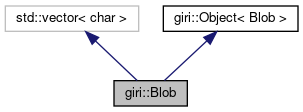
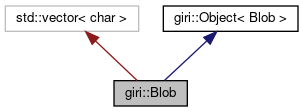
Avoid public inheritance from c++ std::template (bad coding style, should be avoided in general).

Changed region(s): [[0.2673, 0.2679, 0.4455, 0.6964], [0.4455, 0.6964, 0.4752, 0.7232]]

diff --git a/docs/html/Blob_8h_source.html b/docs/html/Blob_8h_source.html
@@ -63,20 +63,20 @@ $(function() {
 <div class="title">Blob.h</div>  </div>
 </div><!--header-->
 <div class="contents">
-<a href="Blob_8h.html">Go to the documentation of this file.</a><div class="fragment"><div class="line"><a name="l00001"></a><span class="lineno">    1</span>&#160;</div><div class="line"><a name="l00010"></a><span class="lineno">   10</span>&#160;<span class="preprocessor">#ifndef SUPPORTLIB_BLOB_H</span></div><div class="line"><a name="l00011"></a><span class="lineno">   11</span>&#160;<span class="preprocessor">#define SUPPORTLIB_BLOB_H</span></div><div class="line"><a name="l00012"></a><span class="lineno">   12</span>&#160;<span class="preprocessor">#include &quot;<a class="code" href="Object_8h.html">Object.h</a>&quot;</span></div><div class="line"><a name="l00013"></a><span class="lineno">   13</span>&#160;<span class="preprocessor">#include &quot;<a class="code" href="Base64_8h.html">Base64.h</a>&quot;</span></div><div class="line"><a name="l00014"></a><span class="lineno">   14</span>&#160;<span class="preprocessor">#include &quot;<a class="code" href="FileSystem_8h.html">FileSystem.h</a>&quot;</span></div><div class="line"><a name="l00015"></a><span class="lineno">   15</span>&#160;<span class="preprocessor">#include &lt;vector&gt;</span></div><div class="line"><a name="l00016"></a><span class="lineno">   16</span>&#160;<span class="preprocessor">#include &lt;string&gt;</span></div><div class="line"><a name="l00017"></a><span class="lineno">   17</span>&#160;<span class="preprocessor">#include &lt;boost/iostreams/filter/gzip.hpp&gt;</span></div><div class="line"><a name="l00018"></a><span class="lineno">   18</span>&#160;<span class="preprocessor">#include &lt;boost/iostreams/filtering_stream.hpp&gt;</span></div><div class="line"><a name="l00019"></a><span class="lineno">   19</span>&#160;<span class="keyword">namespace </span><a class="code" href="namespacegiri.html">giri</a> {</div><div class="line"><a name="l00023"></a><span class="lineno"><a class="line" href="classgiri_1_1Blob.html">   23</a></span>&#160;    <span class="keyword">class </span><a class="code" href="classgiri_1_1Blob.html">Blob</a> : <span class="keyword">public</span> std::vector&lt;char&gt;, <span class="keyword">public</span> <a class="code" href="classgiri_1_1Object.html">Object</a>&lt;Blob&gt;</div><div class="line"><a name="l00024"></a><span class="lineno">   24</span>&#160;    {</div><div class="line"><a name="l00025"></a><span class="lineno">   25</span>&#160;    <span class="keyword">public</span>:</div><div class="line"><a name="l00026"></a><span class="lineno">   26</span>&#160;        <span class="keyword">using</span> std::vector&lt;char&gt;::vector;</div><div class="line"><a name="l00027"></a><span class="lineno">   27</span>&#160;        <a class="code" href="classgiri_1_1Blob.html">Blob</a>(<span class="keyword">const</span> std::vector&lt;char&gt;&amp; d) : ::std::vector&lt;char&gt;(d){};</div><div class="line"><a name="l00028"></a><span class="lineno">   28</span>&#160;        <a class="code" href="classgiri_1_1Blob.html">Blob</a>&amp; operator= (<span class="keyword">const</span> std::vector&lt;char&gt;&amp; d) { assign(d.begin(), d.end()); <span class="keywordflow">return</span> *<span class="keyword">this</span>; };</div><div class="line"><a name="l00029"></a><span class="lineno">   29</span>&#160;</div><div class="line"><a name="l00033"></a><span class="lineno"><a class="line" href="classgiri_1_1Blob.html#a5e8acd486f00f747cd15e5227f5ddddc">   33</a></span>&#160;        std::string <a class="code" href="classgiri_1_1Blob.html#a5e8acd486f00f747cd15e5227f5ddddc">toString</a>()<span class="keyword"> const </span>{</div><div class="line"><a name="l00034"></a><span class="lineno">   34</span>&#160;            <span class="keywordflow">return</span> std::string(begin(), end());</div><div class="line"><a name="l00035"></a><span class="lineno">   35</span>&#160;        }</div><div class="line"><a name="l00036"></a><span class="lineno">   36</span>&#160;</div><div class="line"><a name="l00041"></a><span class="lineno"><a class="line" href="classgiri_1_1Blob.html#a104b091bee389b787210c46ff82be32a">   41</a></span>&#160;        <span class="keywordtype">void</span> <a class="code" href="classgiri_1_1Blob.html#a104b091bee389b787210c46ff82be32a">loadString</a>(<span class="keyword">const</span> std::string&amp; s) {</div><div class="line"><a name="l00042"></a><span class="lineno">   42</span>&#160;            assign(s.begin(), s.end());</div><div class="line"><a name="l00043"></a><span class="lineno">   43</span>&#160;        }</div><div class="line"><a name="l00044"></a><span class="lineno">   44</span>&#160;</div><div class="line"><a name="l00052"></a><span class="lineno"><a class="line" href="classgiri_1_1Blob.html#a7e5dfbe6cc6981bdd2c780406e5d43e9">   52</a></span>&#160;        <span class="keywordtype">bool</span> <a class="code" href="classgiri_1_1Blob.html#a7e5dfbe6cc6981bdd2c780406e5d43e9">toFile</a>(<span class="keyword">const</span> std::filesystem::path&amp; file){</div><div class="line"><a name="l00053"></a><span class="lineno">   53</span>&#160;            <span class="keywordflow">return</span> <a class="code" href="namespacegiri_1_1FileSystem.html#a951e7c5d706bb8b06d101382eadb832f">FileSystem::WriteFile</a>(file, *<span class="keyword">this</span>);</div><div class="line"><a name="l00054"></a><span class="lineno">   54</span>&#160;        }</div><div class="line"><a name="l00055"></a><span class="lineno">   55</span>&#160;</div><div class="line"><a name="l00061"></a><span class="lineno"><a class="line" href="classgiri_1_1Blob.html#ab7bf4966afbf9328e3451ac74dbbbe8e">   61</a></span>&#160;        <span class="keywordtype">void</span> <a class="code" href="classgiri_1_1Blob.html#ab7bf4966afbf9328e3451ac74dbbbe8e">loadFile</a>(<span class="keyword">const</span> std::filesystem::path&amp; file) {</div><div class="line"><a name="l00062"></a><span class="lineno">   62</span>&#160;            *<span class="keyword">this</span> = <a class="code" href="namespacegiri_1_1FileSystem.html#a4ef3f62c0424be19ff4bc9fc36e7b226">FileSystem::LoadFile</a>(file);</div><div class="line"><a name="l00063"></a><span class="lineno">   63</span>&#160;        }</div><div class="line"><a name="l00064"></a><span class="lineno">   64</span>&#160;</div><div class="line"><a name="l00068"></a><span class="lineno"><a class="line" href="classgiri_1_1Blob.html#aac81d7eba9c00d2b7b9984de99089e25">   68</a></span>&#160;        std::string <a class="code" href="classgiri_1_1Blob.html#aac81d7eba9c00d2b7b9984de99089e25">toBase64</a>()<span class="keyword"> const </span>{</div><div class="line"><a name="l00069"></a><span class="lineno">   69</span>&#160;            <span class="keywordflow">return</span> <a class="code" href="namespacegiri_1_1Base64.html#a49673d46cf5535fe22a659ea1f2e8bc4">Base64::Encode</a>(*<span class="keyword">this</span>);</div><div class="line"><a name="l00070"></a><span class="lineno">   70</span>&#160;        }</div><div class="line"><a name="l00071"></a><span class="lineno">   71</span>&#160;</div><div class="line"><a name="l00076"></a><span class="lineno"><a class="line" href="classgiri_1_1Blob.html#a33ade7b7c42fbbeea3f105d09bd1eb22">   76</a></span>&#160;        <span class="keywordtype">void</span> <a class="code" href="classgiri_1_1Blob.html#a33ade7b7c42fbbeea3f105d09bd1eb22">loadBase64</a>(<span class="keyword">const</span> std::string&amp; data) {</div><div class="line"><a name="l00077"></a><span class="lineno">   77</span>&#160;            *<span class="keyword">this</span> = <a class="code" href="namespacegiri_1_1Base64.html#a0d1ab972280af452a08fe74b6a58e522">Base64::Decode</a>(data);</div><div class="line"><a name="l00078"></a><span class="lineno">   78</span>&#160;        }</div><div class="line"><a name="l00079"></a><span class="lineno">   79</span>&#160;</div><div class="line"><a name="l00083"></a><span class="lineno"><a class="line" href="classgiri_1_1Blob.html#a43417f7fbb05b6ec76facb6c940cd46a">   83</a></span>&#160;        <span class="keywordtype">void</span> <a class="code" href="classgiri_1_1Blob.html#a43417f7fbb05b6ec76facb6c940cd46a">compress</a>(){</div><div class="line"><a name="l00084"></a><span class="lineno">   84</span>&#160;            boost::iostreams::filtering_istreambuf in;</div><div class="line"><a name="l00085"></a><span class="lineno">   85</span>&#160;            in.push(boost::iostreams::gzip_compressor(boost::iostreams::zlib::best_compression));</div><div class="line"><a name="l00086"></a><span class="lineno">   86</span>&#160;            in.push(boost::iostreams::array_source(data(), size()));</div><div class="line"><a name="l00087"></a><span class="lineno">   87</span>&#160;            assign(std::istreambuf_iterator&lt;char&gt;{&amp;in}, {});</div><div class="line"><a name="l00088"></a><span class="lineno">   88</span>&#160;        }</div><div class="line"><a name="l00089"></a><span class="lineno">   89</span>&#160;</div><div class="line"><a name="l00093"></a><span class="lineno"><a class="line" href="classgiri_1_1Blob.html#a852a33f1f2908b22b86ebb982d47cfd9">   93</a></span>&#160;        <span class="keywordtype">void</span> <a class="code" href="classgiri_1_1Blob.html#a852a33f1f2908b22b86ebb982d47cfd9">decompress</a>(){</div><div class="line"><a name="l00094"></a><span class="lineno">   94</span>&#160;            boost::iostreams::filtering_istreambuf in;</div><div class="line"><a name="l00095"></a><span class="lineno">   95</span>&#160;            in.push(boost::iostreams::gzip_decompressor(boost::iostreams::zlib::best_compression));</div><div class="line"><a name="l00096"></a><span class="lineno">   96</span>&#160;            in.push(boost::iostreams::array_source(data(), size()));</div><div class="line"><a name="l00097"></a><span class="lineno">   97</span>&#160;            assign(std::istreambuf_iterator&lt;char&gt;{&amp;in}, {});</div><div class="line"><a name="l00098"></a><span class="lineno">   98</span>&#160;        }</div><div class="line"><a name="l00099"></a><span class="lineno">   99</span>&#160;    };</div><div class="line"><a name="l00100"></a><span class="lineno">  100</span>&#160;}</div><div class="line"><a name="l00101"></a><span class="lineno">  101</span>&#160;<span class="preprocessor">#endif //SUPPORTLIB_BLOB_H</span></div><div class="ttc" id="classgiri_1_1Blob_html_a33ade7b7c42fbbeea3f105d09bd1eb22"><div class="ttname"><a href="classgiri_1_1Blob.html#a33ade7b7c42fbbeea3f105d09bd1eb22">giri::Blob::loadBase64</a></div><div class="ttdeci">void loadBase64(const std::string &amp;data)</div><div class="ttdef"><b>Definition:</b> Blob.h:76</div></div>
-<div class="ttc" id="classgiri_1_1Blob_html_ab7bf4966afbf9328e3451ac74dbbbe8e"><div class="ttname"><a href="classgiri_1_1Blob.html#ab7bf4966afbf9328e3451ac74dbbbe8e">giri::Blob::loadFile</a></div><div class="ttdeci">void loadFile(const std::filesystem::path &amp;file)</div><div class="ttdef"><b>Definition:</b> Blob.h:61</div></div>
-<div class="ttc" id="classgiri_1_1Blob_html_a852a33f1f2908b22b86ebb982d47cfd9"><div class="ttname"><a href="classgiri_1_1Blob.html#a852a33f1f2908b22b86ebb982d47cfd9">giri::Blob::decompress</a></div><div class="ttdeci">void decompress()</div><div class="ttdef"><b>Definition:</b> Blob.h:93</div></div>
+<a href="Blob_8h.html">Go to the documentation of this file.</a><div class="fragment"><div class="line"><a name="l00001"></a><span class="lineno">    1</span>&#160;</div><div class="line"><a name="l00010"></a><span class="lineno">   10</span>&#160;<span class="preprocessor">#ifndef SUPPORTLIB_BLOB_H</span></div><div class="line"><a name="l00011"></a><span class="lineno">   11</span>&#160;<span class="preprocessor">#define SUPPORTLIB_BLOB_H</span></div><div class="line"><a name="l00012"></a><span class="lineno">   12</span>&#160;<span class="preprocessor">#include &quot;<a class="code" href="Object_8h.html">Object.h</a>&quot;</span></div><div class="line"><a name="l00013"></a><span class="lineno">   13</span>&#160;<span class="preprocessor">#include &quot;<a class="code" href="Base64_8h.html">Base64.h</a>&quot;</span></div><div class="line"><a name="l00014"></a><span class="lineno">   14</span>&#160;<span class="preprocessor">#include &quot;<a class="code" href="FileSystem_8h.html">FileSystem.h</a>&quot;</span></div><div class="line"><a name="l00015"></a><span class="lineno">   15</span>&#160;<span class="preprocessor">#include &lt;vector&gt;</span></div><div class="line"><a name="l00016"></a><span class="lineno">   16</span>&#160;<span class="preprocessor">#include &lt;string&gt;</span></div><div class="line"><a name="l00017"></a><span class="lineno">   17</span>&#160;<span class="preprocessor">#include &lt;boost/iostreams/filter/gzip.hpp&gt;</span></div><div class="line"><a name="l00018"></a><span class="lineno">   18</span>&#160;<span class="preprocessor">#include &lt;boost/iostreams/filtering_stream.hpp&gt;</span></div><div class="line"><a name="l00019"></a><span class="lineno">   19</span>&#160;<span class="keyword">namespace </span><a class="code" href="namespacegiri.html">giri</a> {</div><div class="line"><a name="l00023"></a><span class="lineno"><a class="line" href="classgiri_1_1Blob.html">   23</a></span>&#160;    <span class="keyword">class </span><a class="code" href="classgiri_1_1Blob.html">Blob</a> : <span class="keyword">private</span> std::vector&lt;char&gt;, <span class="keyword">public</span> <a class="code" href="classgiri_1_1Object.html">Object</a>&lt;Blob&gt;</div><div class="line"><a name="l00024"></a><span class="lineno">   24</span>&#160;    {</div><div class="line"><a name="l00025"></a><span class="lineno">   25</span>&#160;    <span class="keyword">public</span>:</div><div class="line"><a name="l00026"></a><span class="lineno">   26</span>&#160;        <span class="keyword">using</span> std::vector&lt;char&gt;::push_back;</div><div class="line"><a name="l00027"></a><span class="lineno">   27</span>&#160;        <span class="keyword">using</span> std::vector&lt;char&gt;::pop_back;</div><div class="line"><a name="l00028"></a><span class="lineno">   28</span>&#160;        <span class="keyword">using</span> std::vector&lt;char&gt;::emplace_back;</div><div class="line"><a name="l00029"></a><span class="lineno">   29</span>&#160;        <span class="keyword">using</span> std::vector&lt;char&gt;::front;</div><div class="line"><a name="l00030"></a><span class="lineno">   30</span>&#160;        <span class="keyword">using</span> std::vector&lt;char&gt;::back;</div><div class="line"><a name="l00031"></a><span class="lineno">   31</span>&#160;        <span class="keyword">using</span> std::vector&lt;char&gt;::operator[];</div><div class="line"><a name="l00032"></a><span class="lineno">   32</span>&#160;        <span class="keyword">using</span> std::vector&lt;char&gt;::operator=;</div><div class="line"><a name="l00033"></a><span class="lineno">   33</span>&#160;        <span class="keyword">using</span> std::vector&lt;char&gt;::begin;</div><div class="line"><a name="l00034"></a><span class="lineno">   34</span>&#160;        <span class="keyword">using</span> std::vector&lt;char&gt;::end;</div><div class="line"><a name="l00035"></a><span class="lineno">   35</span>&#160;        <span class="keyword">using</span> std::vector&lt;char&gt;::cbegin;</div><div class="line"><a name="l00036"></a><span class="lineno">   36</span>&#160;        <span class="keyword">using</span> std::vector&lt;char&gt;::cend;</div><div class="line"><a name="l00037"></a><span class="lineno">   37</span>&#160;        <span class="keyword">using</span> std::vector&lt;char&gt;::crbegin;</div><div class="line"><a name="l00038"></a><span class="lineno">   38</span>&#160;        <span class="keyword">using</span> std::vector&lt;char&gt;::crend;</div><div class="line"><a name="l00039"></a><span class="lineno">   39</span>&#160;        <span class="keyword">using</span> std::vector&lt;char&gt;::assign;</div><div class="line"><a name="l00040"></a><span class="lineno">   40</span>&#160;        <span class="keyword">using</span> std::vector&lt;char&gt;::size;</div><div class="line"><a name="l00041"></a><span class="lineno">   41</span>&#160;        <span class="keyword">using</span> std::vector&lt;char&gt;::at;</div><div class="line"><a name="l00042"></a><span class="lineno">   42</span>&#160;        <span class="keyword">using</span> std::vector&lt;char&gt;::clear;</div><div class="line"><a name="l00043"></a><span class="lineno">   43</span>&#160;        <span class="keyword">using</span> std::vector&lt;char&gt;::empty;</div><div class="line"><a name="l00044"></a><span class="lineno">   44</span>&#160;        <span class="keyword">using</span> std::vector&lt;char&gt;::erase;</div><div class="line"><a name="l00045"></a><span class="lineno">   45</span>&#160;        <span class="keyword">using</span> std::vector&lt;char&gt;::insert;</div><div class="line"><a name="l00046"></a><span class="lineno">   46</span>&#160;        <span class="keyword">using</span> std::vector&lt;char&gt;::resize;</div><div class="line"><a name="l00047"></a><span class="lineno">   47</span>&#160;        <span class="keyword">using</span> std::vector&lt;char&gt;::reserve;</div><div class="line"><a name="l00048"></a><span class="lineno">   48</span>&#160;        <span class="keyword">using</span> std::vector&lt;char&gt;::iterator;</div><div class="line"><a name="l00049"></a><span class="lineno">   49</span>&#160;        <span class="keyword">using</span> std::vector&lt;char&gt;::const_iterator;</div><div class="line"><a name="l00050"></a><span class="lineno">   50</span>&#160;        <span class="keyword">using</span> std::vector&lt;char&gt;::vector;</div><div class="line"><a name="l00051"></a><span class="lineno">   51</span>&#160;        </div><div class="line"><a name="l00055"></a><span class="lineno"><a class="line" href="classgiri_1_1Blob.html#a5e8acd486f00f747cd15e5227f5ddddc">   55</a></span>&#160;        std::string <a class="code" href="classgiri_1_1Blob.html#a5e8acd486f00f747cd15e5227f5ddddc">toString</a>()<span class="keyword"> const </span>{</div><div class="line"><a name="l00056"></a><span class="lineno">   56</span>&#160;            <span class="keywordflow">return</span> std::string(begin(), end());</div><div class="line"><a name="l00057"></a><span class="lineno">   57</span>&#160;        }</div><div class="line"><a name="l00058"></a><span class="lineno">   58</span>&#160;</div><div class="line"><a name="l00063"></a><span class="lineno"><a class="line" href="classgiri_1_1Blob.html#a104b091bee389b787210c46ff82be32a">   63</a></span>&#160;        <span class="keywordtype">void</span> <a class="code" href="classgiri_1_1Blob.html#a104b091bee389b787210c46ff82be32a">loadString</a>(<span class="keyword">const</span> std::string&amp; s) {</div><div class="line"><a name="l00064"></a><span class="lineno">   64</span>&#160;            assign(s.begin(), s.end());</div><div class="line"><a name="l00065"></a><span class="lineno">   65</span>&#160;        }</div><div class="line"><a name="l00066"></a><span class="lineno">   66</span>&#160;</div><div class="line"><a name="l00074"></a><span class="lineno"><a class="line" href="classgiri_1_1Blob.html#a7e5dfbe6cc6981bdd2c780406e5d43e9">   74</a></span>&#160;        <span class="keywordtype">bool</span> <a class="code" href="classgiri_1_1Blob.html#a7e5dfbe6cc6981bdd2c780406e5d43e9">toFile</a>(<span class="keyword">const</span> std::filesystem::path&amp; file){</div><div class="line"><a name="l00075"></a><span class="lineno">   75</span>&#160;            <span class="keywordflow">return</span> <a class="code" href="namespacegiri_1_1FileSystem.html#a951e7c5d706bb8b06d101382eadb832f">FileSystem::WriteFile</a>(file, *<span class="keyword">this</span>);</div><div class="line"><a name="l00076"></a><span class="lineno">   76</span>&#160;        }</div><div class="line"><a name="l00077"></a><span class="lineno">   77</span>&#160;</div><div class="line"><a name="l00083"></a><span class="lineno"><a class="line" href="classgiri_1_1Blob.html#ab7bf4966afbf9328e3451ac74dbbbe8e">   83</a></span>&#160;        <span class="keywordtype">void</span> <a class="code" href="classgiri_1_1Blob.html#ab7bf4966afbf9328e3451ac74dbbbe8e">loadFile</a>(<span class="keyword">const</span> std::filesystem::path&amp; file) {</div><div class="line"><a name="l00084"></a><span class="lineno">   84</span>&#160;            *<span class="keyword">this</span> = <a class="code" href="namespacegiri_1_1FileSystem.html#a4ef3f62c0424be19ff4bc9fc36e7b226">FileSystem::LoadFile</a>(file);</div><div class="line"><a name="l00085"></a><span class="lineno">   85</span>&#160;        }</div><div class="line"><a name="l00086"></a><span class="lineno">   86</span>&#160;</div><div class="line"><a name="l00090"></a><span class="lineno"><a class="line" href="classgiri_1_1Blob.html#aac81d7eba9c00d2b7b9984de99089e25">   90</a></span>&#160;        std::string <a class="code" href="classgiri_1_1Blob.html#aac81d7eba9c00d2b7b9984de99089e25">toBase64</a>()<span class="keyword"> const </span>{</div><div class="line"><a name="l00091"></a><span class="lineno">   91</span>&#160;            <span class="keywordflow">return</span> <a class="code" href="namespacegiri_1_1Base64.html#a49673d46cf5535fe22a659ea1f2e8bc4">Base64::Encode</a>(*<span class="keyword">this</span>);</div><div class="line"><a name="l00092"></a><span class="lineno">   92</span>&#160;        }</div><div class="line"><a name="l00093"></a><span class="lineno">   93</span>&#160;</div><div class="line"><a name="l00098"></a><span class="lineno"><a class="line" href="classgiri_1_1Blob.html#a33ade7b7c42fbbeea3f105d09bd1eb22">   98</a></span>&#160;        <span class="keywordtype">void</span> <a class="code" href="classgiri_1_1Blob.html#a33ade7b7c42fbbeea3f105d09bd1eb22">loadBase64</a>(<span class="keyword">const</span> std::string&amp; data) {</div><div class="line"><a name="l00099"></a><span class="lineno">   99</span>&#160;            *<span class="keyword">this</span> = <a class="code" href="namespacegiri_1_1Base64.html#a0d1ab972280af452a08fe74b6a58e522">Base64::Decode</a>(data);</div><div class="line"><a name="l00100"></a><span class="lineno">  100</span>&#160;        }</div><div class="line"><a name="l00101"></a><span class="lineno">  101</span>&#160;</div><div class="line"><a name="l00105"></a><span class="lineno"><a class="line" href="classgiri_1_1Blob.html#a43417f7fbb05b6ec76facb6c940cd46a">  105</a></span>&#160;        <span class="keywordtype">void</span> <a class="code" href="classgiri_1_1Blob.html#a43417f7fbb05b6ec76facb6c940cd46a">compress</a>(){</div><div class="line"><a name="l00106"></a><span class="lineno">  106</span>&#160;            boost::iostreams::filtering_istreambuf in;</div><div class="line"><a name="l00107"></a><span class="lineno">  107</span>&#160;            in.push(boost::iostreams::gzip_compressor(boost::iostreams::zlib::best_compression));</div><div class="line"><a name="l00108"></a><span class="lineno">  108</span>&#160;            in.push(boost::iostreams::array_source(data(), size()));</div><div class="line"><a name="l00109"></a><span class="lineno">  109</span>&#160;            assign(std::istreambuf_iterator&lt;char&gt;{&amp;in}, {});</div><div class="line"><a name="l00110"></a><span class="lineno">  110</span>&#160;        }</div><div class="line"><a name="l00111"></a><span class="lineno">  111</span>&#160;</div><div class="line"><a name="l00115"></a><span class="lineno"><a class="line" href="classgiri_1_1Blob.html#a852a33f1f2908b22b86ebb982d47cfd9">  115</a></span>&#160;        <span class="keywordtype">void</span> <a class="code" href="classgiri_1_1Blob.html#a852a33f1f2908b22b86ebb982d47cfd9">decompress</a>(){</div><div class="line"><a name="l00116"></a><span class="lineno">  116</span>&#160;            boost::iostreams::filtering_istreambuf in;</div><div class="line"><a name="l00117"></a><span class="lineno">  117</span>&#160;            in.push(boost::iostreams::gzip_decompressor(boost::iostreams::zlib::best_compression));</div><div class="line"><a name="l00118"></a><span class="lineno">  118</span>&#160;            in.push(boost::iostreams::array_source(data(), size()));</div><div class="line"><a name="l00119"></a><span class="lineno">  119</span>&#160;            assign(std::istreambuf_iterator&lt;char&gt;{&amp;in}, {});</div><div class="line"><a name="l00120"></a><span class="lineno">  120</span>&#160;        }</div><div class="line"><a name="l00121"></a><span class="lineno">  121</span>&#160;    };</div><div class="line"><a name="l00122"></a><span class="lineno">  122</span>&#160;}</div><div class="line"><a name="l00123"></a><span class="lineno">  123</span>&#160;<span class="preprocessor">#endif //SUPPORTLIB_BLOB_H</span></div><div class="ttc" id="classgiri_1_1Blob_html_a33ade7b7c42fbbeea3f105d09bd1eb22"><div class="ttname"><a href="classgiri_1_1Blob.html#a33ade7b7c42fbbeea3f105d09bd1eb22">giri::Blob::loadBase64</a></div><div class="ttdeci">void loadBase64(const std::string &amp;data)</div><div class="ttdef"><b>Definition:</b> Blob.h:98</div></div>
+<div class="ttc" id="classgiri_1_1Blob_html_ab7bf4966afbf9328e3451ac74dbbbe8e"><div class="ttname"><a href="classgiri_1_1Blob.html#ab7bf4966afbf9328e3451ac74dbbbe8e">giri::Blob::loadFile</a></div><div class="ttdeci">void loadFile(const std::filesystem::path &amp;file)</div><div class="ttdef"><b>Definition:</b> Blob.h:83</div></div>
+<div class="ttc" id="classgiri_1_1Blob_html_a852a33f1f2908b22b86ebb982d47cfd9"><div class="ttname"><a href="classgiri_1_1Blob.html#a852a33f1f2908b22b86ebb982d47cfd9">giri::Blob::decompress</a></div><div class="ttdeci">void decompress()</div><div class="ttdef"><b>Definition:</b> Blob.h:115</div></div>
 <div class="ttc" id="classgiri_1_1Blob_html"><div class="ttname"><a href="classgiri_1_1Blob.html">giri::Blob</a></div><div class="ttdoc">Binary large object. </div><div class="ttdef"><b>Definition:</b> Blob.h:23</div></div>
 <div class="ttc" id="namespacegiri_html"><div class="ttname"><a href="namespacegiri.html">giri</a></div><div class="ttdoc">Namespace for giri&amp;#39;s C++ support library. </div><div class="ttdef"><b>Definition:</b> Base64.h:47</div></div>
 <div class="ttc" id="namespacegiri_1_1Base64_html_a0d1ab972280af452a08fe74b6a58e522"><div class="ttname"><a href="namespacegiri_1_1Base64.html#a0d1ab972280af452a08fe74b6a58e522">giri::Base64::Decode</a></div><div class="ttdeci">std::vector&lt; char &gt; Decode(const std::string &amp;base64Data)</div><div class="ttdef"><b>Definition:</b> Base64.h:104</div></div>
-<div class="ttc" id="classgiri_1_1Blob_html_a43417f7fbb05b6ec76facb6c940cd46a"><div class="ttname"><a href="classgiri_1_1Blob.html#a43417f7fbb05b6ec76facb6c940cd46a">giri::Blob::compress</a></div><div class="ttdeci">void compress()</div><div class="ttdef"><b>Definition:</b> Blob.h:83</div></div>
-<div class="ttc" id="classgiri_1_1Blob_html_a5e8acd486f00f747cd15e5227f5ddddc"><div class="ttname"><a href="classgiri_1_1Blob.html#a5e8acd486f00f747cd15e5227f5ddddc">giri::Blob::toString</a></div><div class="ttdeci">std::string toString() const</div><div class="ttdef"><b>Definition:</b> Blob.h:33</div></div>
+<div class="ttc" id="classgiri_1_1Blob_html_a43417f7fbb05b6ec76facb6c940cd46a"><div class="ttname"><a href="classgiri_1_1Blob.html#a43417f7fbb05b6ec76facb6c940cd46a">giri::Blob::compress</a></div><div class="ttdeci">void compress()</div><div class="ttdef"><b>Definition:</b> Blob.h:105</div></div>
+<div class="ttc" id="classgiri_1_1Blob_html_a5e8acd486f00f747cd15e5227f5ddddc"><div class="ttname"><a href="classgiri_1_1Blob.html#a5e8acd486f00f747cd15e5227f5ddddc">giri::Blob::toString</a></div><div class="ttdeci">std::string toString() const</div><div class="ttdef"><b>Definition:</b> Blob.h:55</div></div>
 <div class="ttc" id="namespacegiri_1_1FileSystem_html_a4ef3f62c0424be19ff4bc9fc36e7b226"><div class="ttname"><a href="namespacegiri_1_1FileSystem.html#a4ef3f62c0424be19ff4bc9fc36e7b226">giri::FileSystem::LoadFile</a></div><div class="ttdeci">std::vector&lt; char &gt; LoadFile(const std::filesystem::path &amp;file)</div><div class="ttdef"><b>Definition:</b> FileSystem.h:44</div></div>
-<div class="ttc" id="classgiri_1_1Blob_html_a7e5dfbe6cc6981bdd2c780406e5d43e9"><div class="ttname"><a href="classgiri_1_1Blob.html#a7e5dfbe6cc6981bdd2c780406e5d43e9">giri::Blob::toFile</a></div><div class="ttdeci">bool toFile(const std::filesystem::path &amp;file)</div><div class="ttdef"><b>Definition:</b> Blob.h:52</div></div>
+<div class="ttc" id="classgiri_1_1Blob_html_a7e5dfbe6cc6981bdd2c780406e5d43e9"><div class="ttname"><a href="classgiri_1_1Blob.html#a7e5dfbe6cc6981bdd2c780406e5d43e9">giri::Blob::toFile</a></div><div class="ttdeci">bool toFile(const std::filesystem::path &amp;file)</div><div class="ttdef"><b>Definition:</b> Blob.h:74</div></div>
 <div class="ttc" id="FileSystem_8h_html"><div class="ttname"><a href="FileSystem_8h.html">FileSystem.h</a></div><div class="ttdoc">Contains FileSystem I/O functions. </div></div>
-<div class="ttc" id="classgiri_1_1Blob_html_aac81d7eba9c00d2b7b9984de99089e25"><div class="ttname"><a href="classgiri_1_1Blob.html#aac81d7eba9c00d2b7b9984de99089e25">giri::Blob::toBase64</a></div><div class="ttdeci">std::string toBase64() const</div><div class="ttdef"><b>Definition:</b> Blob.h:68</div></div>
+<div class="ttc" id="classgiri_1_1Blob_html_aac81d7eba9c00d2b7b9984de99089e25"><div class="ttname"><a href="classgiri_1_1Blob.html#aac81d7eba9c00d2b7b9984de99089e25">giri::Blob::toBase64</a></div><div class="ttdeci">std::string toBase64() const</div><div class="ttdef"><b>Definition:</b> Blob.h:90</div></div>
 <div class="ttc" id="Object_8h_html"><div class="ttname"><a href="Object_8h.html">Object.h</a></div><div class="ttdoc">Base class of all classes. </div></div>
-<div class="ttc" id="classgiri_1_1Blob_html_a104b091bee389b787210c46ff82be32a"><div class="ttname"><a href="classgiri_1_1Blob.html#a104b091bee389b787210c46ff82be32a">giri::Blob::loadString</a></div><div class="ttdeci">void loadString(const std::string &amp;s)</div><div class="ttdef"><b>Definition:</b> Blob.h:41</div></div>
+<div class="ttc" id="classgiri_1_1Blob_html_a104b091bee389b787210c46ff82be32a"><div class="ttname"><a href="classgiri_1_1Blob.html#a104b091bee389b787210c46ff82be32a">giri::Blob::loadString</a></div><div class="ttdeci">void loadString(const std::string &amp;s)</div><div class="ttdef"><b>Definition:</b> Blob.h:63</div></div>
 <div class="ttc" id="classgiri_1_1Object_html"><div class="ttname"><a href="classgiri_1_1Object.html">giri::Object</a></div><div class="ttdoc">Base Class of all classes. </div><div class="ttdef"><b>Definition:</b> Object.h:33</div></div>
 <div class="ttc" id="namespacegiri_1_1Base64_html_a49673d46cf5535fe22a659ea1f2e8bc4"><div class="ttname"><a href="namespacegiri_1_1Base64.html#a49673d46cf5535fe22a659ea1f2e8bc4">giri::Base64::Encode</a></div><div class="ttdeci">std::string Encode(const std::vector&lt; char &gt; &amp;data)</div><div class="ttdef"><b>Definition:</b> Base64.h:60</div></div>
 <div class="ttc" id="namespacegiri_1_1FileSystem_html_a951e7c5d706bb8b06d101382eadb832f"><div class="ttname"><a href="namespacegiri_1_1FileSystem.html#a951e7c5d706bb8b06d101382eadb832f">giri::FileSystem::WriteFile</a></div><div class="ttdeci">bool WriteFile(const std::filesystem::path &amp;file, const std::vector&lt; char &gt; &amp;data)</div><div class="ttdef"><b>Definition:</b> FileSystem.h:68</div></div>

diff --git a/docs/html/classgiri_1_1Blob-members.html b/docs/html/classgiri_1_1Blob-members.html
@@ -70,14 +70,12 @@ $(function() {
 
 <p>This is the complete list of members for <a class="el" href="classgiri_1_1Blob.html">giri::Blob</a>, including all inherited members.</p>
 <table class="directory">
-  <tr bgcolor="#f0f0f0" class="even"><td class="entry"><b>Blob</b>(const std::vector&lt; char &gt; &amp;d) (defined in <a class="el" href="classgiri_1_1Blob.html">giri::Blob</a>)</td><td class="entry"><a class="el" href="classgiri_1_1Blob.html">giri::Blob</a></td><td class="entry"><span class="mlabel">inline</span></td></tr>
-  <tr><td class="entry"><a class="el" href="classgiri_1_1Blob.html#a43417f7fbb05b6ec76facb6c940cd46a">compress</a>()</td><td class="entry"><a class="el" href="classgiri_1_1Blob.html">giri::Blob</a></td><td class="entry"><span class="mlabel">inline</span></td></tr>
-  <tr class="even"><td class="entry"><a class="el" href="classgiri_1_1Blob.html#a852a33f1f2908b22b86ebb982d47cfd9">decompress</a>()</td><td class="entry"><a class="el" href="classgiri_1_1Blob.html">giri::Blob</a></td><td class="entry"><span class="mlabel">inline</span></td></tr>
-  <tr><td class="entry"><a class="el" href="classgiri_1_1Blob.html#a33ade7b7c42fbbeea3f105d09bd1eb22">loadBase64</a>(const std::string &amp;data)</td><td class="entry"><a class="el" href="classgiri_1_1Blob.html">giri::Blob</a></td><td class="entry"><span class="mlabel">inline</span></td></tr>
-  <tr class="even"><td class="entry"><a class="el" href="classgiri_1_1Blob.html#ab7bf4966afbf9328e3451ac74dbbbe8e">loadFile</a>(const std::filesystem::path &amp;file)</td><td class="entry"><a class="el" href="classgiri_1_1Blob.html">giri::Blob</a></td><td class="entry"><span class="mlabel">inline</span></td></tr>
-  <tr><td class="entry"><a class="el" href="classgiri_1_1Blob.html#a104b091bee389b787210c46ff82be32a">loadString</a>(const std::string &amp;s)</td><td class="entry"><a class="el" href="classgiri_1_1Blob.html">giri::Blob</a></td><td class="entry"><span class="mlabel">inline</span></td></tr>
-  <tr bgcolor="#f0f0f0" class="even"><td class="entry"><b>Object</b>()=default (defined in <a class="el" href="classgiri_1_1Object.html">giri::Object&lt; Blob &gt;</a>)</td><td class="entry"><a class="el" href="classgiri_1_1Object.html">giri::Object&lt; Blob &gt;</a></td><td class="entry"><span class="mlabel">protected</span></td></tr>
-  <tr bgcolor="#f0f0f0"><td class="entry"><b>operator=</b>(const std::vector&lt; char &gt; &amp;d) (defined in <a class="el" href="classgiri_1_1Blob.html">giri::Blob</a>)</td><td class="entry"><a class="el" href="classgiri_1_1Blob.html">giri::Blob</a></td><td class="entry"><span class="mlabel">inline</span></td></tr>
+  <tr class="even"><td class="entry"><a class="el" href="classgiri_1_1Blob.html#a43417f7fbb05b6ec76facb6c940cd46a">compress</a>()</td><td class="entry"><a class="el" href="classgiri_1_1Blob.html">giri::Blob</a></td><td class="entry"><span class="mlabel">inline</span></td></tr>
+  <tr><td class="entry"><a class="el" href="classgiri_1_1Blob.html#a852a33f1f2908b22b86ebb982d47cfd9">decompress</a>()</td><td class="entry"><a class="el" href="classgiri_1_1Blob.html">giri::Blob</a></td><td class="entry"><span class="mlabel">inline</span></td></tr>
+  <tr class="even"><td class="entry"><a class="el" href="classgiri_1_1Blob.html#a33ade7b7c42fbbeea3f105d09bd1eb22">loadBase64</a>(const std::string &amp;data)</td><td class="entry"><a class="el" href="classgiri_1_1Blob.html">giri::Blob</a></td><td class="entry"><span class="mlabel">inline</span></td></tr>
+  <tr><td class="entry"><a class="el" href="classgiri_1_1Blob.html#ab7bf4966afbf9328e3451ac74dbbbe8e">loadFile</a>(const std::filesystem::path &amp;file)</td><td class="entry"><a class="el" href="classgiri_1_1Blob.html">giri::Blob</a></td><td class="entry"><span class="mlabel">inline</span></td></tr>
+  <tr class="even"><td class="entry"><a class="el" href="classgiri_1_1Blob.html#a104b091bee389b787210c46ff82be32a">loadString</a>(const std::string &amp;s)</td><td class="entry"><a class="el" href="classgiri_1_1Blob.html">giri::Blob</a></td><td class="entry"><span class="mlabel">inline</span></td></tr>
+  <tr bgcolor="#f0f0f0"><td class="entry"><b>Object</b>()=default (defined in <a class="el" href="classgiri_1_1Object.html">giri::Object&lt; Blob &gt;</a>)</td><td class="entry"><a class="el" href="classgiri_1_1Object.html">giri::Object&lt; Blob &gt;</a></td><td class="entry"><span class="mlabel">protected</span></td></tr>
   <tr bgcolor="#f0f0f0" class="even"><td class="entry"><b>SPtr</b> typedef (defined in <a class="el" href="classgiri_1_1Object.html">giri::Object&lt; Blob &gt;</a>)</td><td class="entry"><a class="el" href="classgiri_1_1Object.html">giri::Object&lt; Blob &gt;</a></td><td class="entry"></td></tr>
   <tr><td class="entry"><a class="el" href="classgiri_1_1Blob.html#aac81d7eba9c00d2b7b9984de99089e25">toBase64</a>() const</td><td class="entry"><a class="el" href="classgiri_1_1Blob.html">giri::Blob</a></td><td class="entry"><span class="mlabel">inline</span></td></tr>
   <tr class="even"><td class="entry"><a class="el" href="classgiri_1_1Blob.html#a7e5dfbe6cc6981bdd2c780406e5d43e9">toFile</a>(const std::filesystem::path &amp;file)</td><td class="entry"><a class="el" href="classgiri_1_1Blob.html">giri::Blob</a></td><td class="entry"><span class="mlabel">inline</span></td></tr>

diff --git a/docs/html/classgiri_1_1Blob.html b/docs/html/classgiri_1_1Blob.html
@@ -94,12 +94,6 @@ Collaboration diagram for giri::Blob:</div>
 <table class="memberdecls">
 <tr class="heading"><td colspan="2"><h2 class="groupheader"><a name="pub-methods"></a>
 Public Member Functions</h2></td></tr>
-<tr class="memitem:a246b9802a7ab70ef49235ef0c5d3f816"><td class="memItemLeft" align="right" valign="top"><a id="a246b9802a7ab70ef49235ef0c5d3f816"></a>
-&#160;</td><td class="memItemRight" valign="bottom"><b>Blob</b> (const std::vector&lt; char &gt; &amp;d)</td></tr>
-<tr class="separator:a246b9802a7ab70ef49235ef0c5d3f816"><td class="memSeparator" colspan="2">&#160;</td></tr>
-<tr class="memitem:aa15e1268636fce053e1fbea7f3df408f"><td class="memItemLeft" align="right" valign="top"><a id="aa15e1268636fce053e1fbea7f3df408f"></a>
-<a class="el" href="classgiri_1_1Blob.html">Blob</a> &amp;&#160;</td><td class="memItemRight" valign="bottom"><b>operator=</b> (const std::vector&lt; char &gt; &amp;d)</td></tr>
-<tr class="separator:aa15e1268636fce053e1fbea7f3df408f"><td class="memSeparator" colspan="2">&#160;</td></tr>
 <tr class="memitem:a5e8acd486f00f747cd15e5227f5ddddc"><td class="memItemLeft" align="right" valign="top">std::string&#160;</td><td class="memItemRight" valign="bottom"><a class="el" href="classgiri_1_1Blob.html#a5e8acd486f00f747cd15e5227f5ddddc">toString</a> () const</td></tr>
 <tr class="separator:a5e8acd486f00f747cd15e5227f5ddddc"><td class="memSeparator" colspan="2">&#160;</td></tr>
 <tr class="memitem:a104b091bee389b787210c46ff82be32a"><td class="memItemLeft" align="right" valign="top">void&#160;</td><td class="memItemRight" valign="bottom"><a class="el" href="classgiri_1_1Blob.html#a104b091bee389b787210c46ff82be32a">loadString</a> (const std::string &amp;s)</td></tr>

diff --git a/Blob.h b/Blob.h
@@ -20,13 +20,35 @@ namespace giri {
     /**
      * @brief Binary large object.
      */
-    class Blob : public std::vector<char>, public Object<Blob>
+    class Blob : private std::vector<char>, public Object<Blob>
     {
     public:
+        using std::vector<char>::push_back;
+        using std::vector<char>::pop_back;
+        using std::vector<char>::emplace_back;
+        using std::vector<char>::front;
+        using std::vector<char>::back;
+        using std::vector<char>::operator[];
+        using std::vector<char>::operator=;
+        using std::vector<char>::begin;
+        using std::vector<char>::end;
+        using std::vector<char>::cbegin;
+        using std::vector<char>::cend;
+        using std::vector<char>::crbegin;
+        using std::vector<char>::crend;
+        using std::vector<char>::assign;
+        using std::vector<char>::size;
+        using std::vector<char>::at;
+        using std::vector<char>::clear;
+        using std::vector<char>::empty;
+        using std::vector<char>::erase;
+        using std::vector<char>::insert;
+        using std::vector<char>::resize;
+        using std::vector<char>::reserve;
+        using std::vector<char>::iterator;
+        using std::vector<char>::const_iterator;
         using std::vector<char>::vector;
-        Blob(const std::vector<char>& d) : ::std::vector<char>(d){};
-        Blob& operator= (const std::vector<char>& d) { assign(d.begin(), d.end()); return *this; };
-
+        
         /**
          * @returns The stored data as string.
          */
